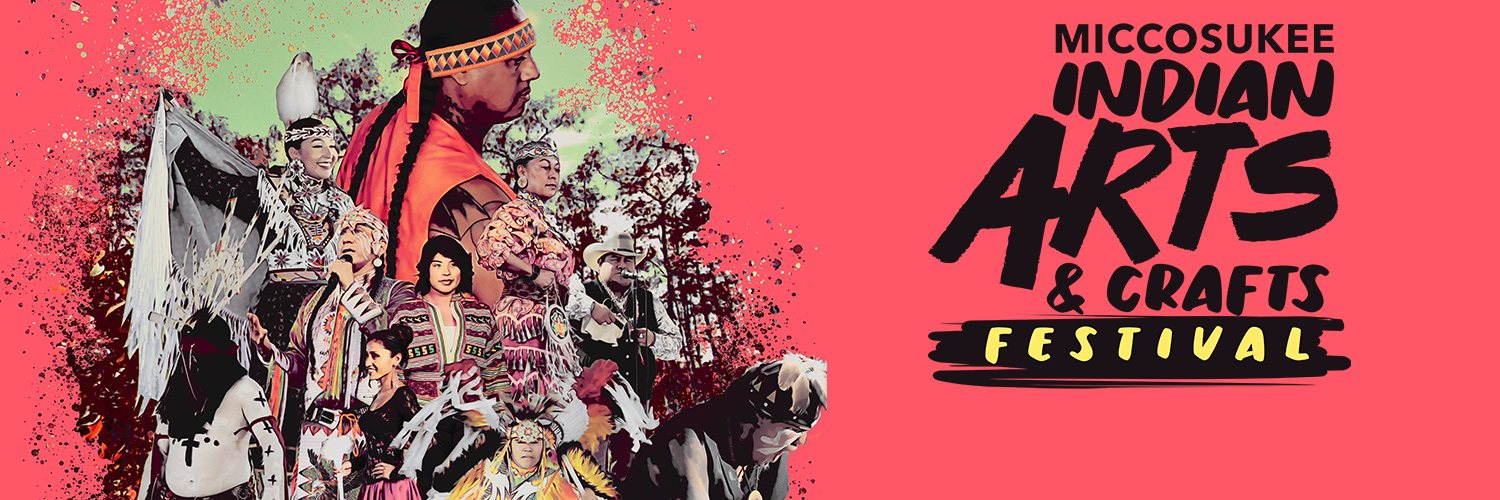
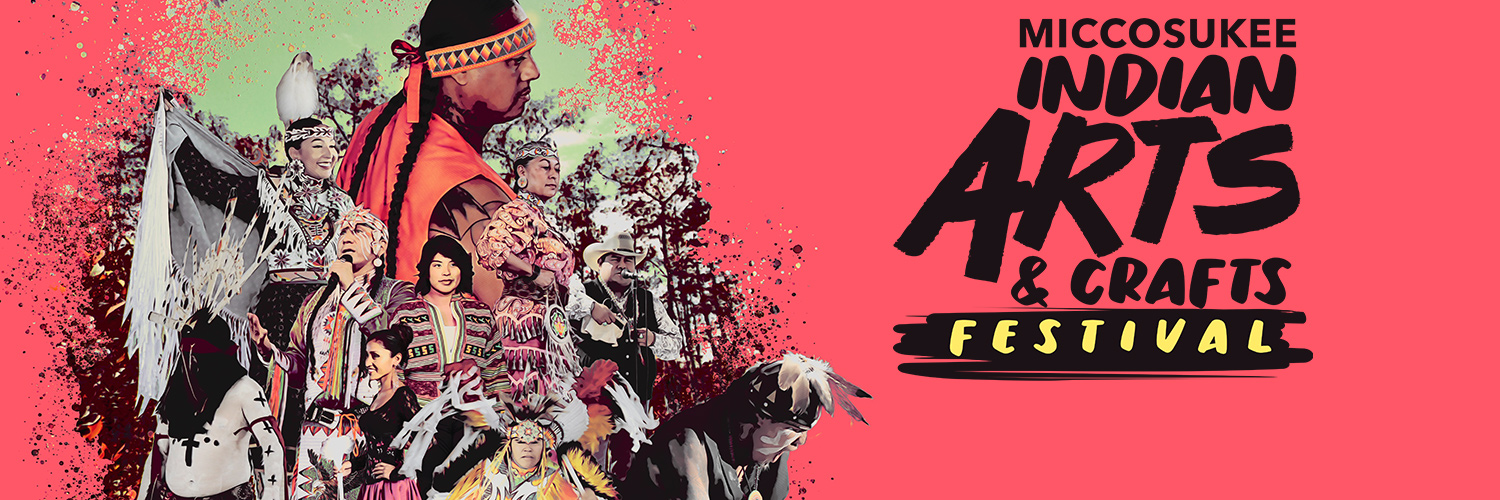
copy and header img update for arts landing page

Changed region(s): [[0.5827, 0.03, 0.92, 0.78], [0.552, 0.75, 0.5827, 0.84]]

diff --git a/src/views/LandingPages/artsandcrafts.js b/src/views/LandingPages/artsandcrafts.js
@@ -80,12 +80,12 @@ const ArtsAndCrafts = () => {
                 <p className={classes.contentSectionDetails}>
                   {language
                     ? 'Native American culture comes alive in a three-day gathering of music, arts, and entertainment in the heart of the Florida Everglades.'
-                    : 'La cultura nativa americana cobra vida en una reunión de tres días de música, arte y entretenimiento en el corazón de los Everglades de Florida.'}
+                    : 'La cultura Nativa Americana cobra vida en una reunión de tres días de música, arte y entretenimiento en el corazón de los Everglades de Florida.'}
                 </p>
                 <p className={classes.contentSectionDetails}>
                   {language
                     ? 'Gather in the Everglades for indigenous music and dance performances, an artisan market featuring crafts and authentic cuisine, and alligator demonstrations teaching this traditional art of survival.'
-                    : 'Visite los Everglades para disfrutar de espectáculos de música y danza indígenas, un mercado artisanal, cocina auténtica, y demostraciones de caimanes que enseñan este arte tradicional de supervivencia.'}
+                    : 'Visite los Everglades para disfrutar de espectáculos de música y danza indígenas, un mercado artesanal, cocina auténtica, y demostraciones de caimanes que enseñan este arte tradicional de supervivencia.'}
                 </p>
                 <p className={classes.contentSectionDetails}>
                   {language
@@ -118,7 +118,7 @@ const ArtsAndCrafts = () => {
                     </span>
                     {language
                       ? 'December 29 – 31, 2022, from 10 AM – 5 PM'
-                      : '29 a 31 de diciembre, de 10 AM a 5 PM'}
+                      : '29 al 31 de diciembre, de 10 AM a 5 PM'}
                   </p>
                   <p className={classes.contentSectionDetails}>
                     <span style={{ fontWeight: 'bold' }}>
@@ -126,7 +126,7 @@ const ArtsAndCrafts = () => {
                     </span>
                     {language
                       ? 'Miccosukee Indian Village fairgrounds, 500 US Hwy 41, Miami, FL 33194.'
-                      : 'Miccosukee Indian Village fairgrounds, 500 US Hwy 41, Miami, FL 33194.'}
+                      : 'Recinto Ferial del Miccosukee Indian Village Miccosukee Indian Village fairgrounds, 500 US Hwy 41, Miami, FL 33194'}
                   </p>
                   {/*
                   <div>
@@ -180,7 +180,7 @@ const ArtsAndCrafts = () => {
                     className={classes.contentButton}
                   >
                     <span className={classes.contentButtonText}>
-                      {language ? 'REGISTER HERE' : 'REGÍSTRESE AQUÍ'}
+                      {language ? 'TICKETS' : 'ENTRADAS'}
                     </span>
                   </Button>
                 </div>
@@ -268,9 +268,7 @@ const ArtsAndCrafts = () => {
                 <div className={classes.disclaimer}>
                   <p className={classes.contentSectionDetailsDisclaimer}>
                     <span style={{ fontWeight: 'bold' }}>
-                      {language
-                        ? 'Experience Miccosukee:'
-                        : 'La Experiencia Miccosukee:'}
+                      {language ? 'Experience Miccosukee:' : 'Eche un Vistazo:'}
                     </span>{' '}
                     <br />
                     {language
@@ -317,7 +315,7 @@ const ArtsAndCrafts = () => {
                           textDecoration: 'underline',
                         }}
                       >
-                        {language ? 'Sign up HERE' : 'Regístrese AQUÍ'}
+                        {language ? 'Sign up HERE' : 'BOLETOS'}
                       </span>
                     </a>
                     {language
